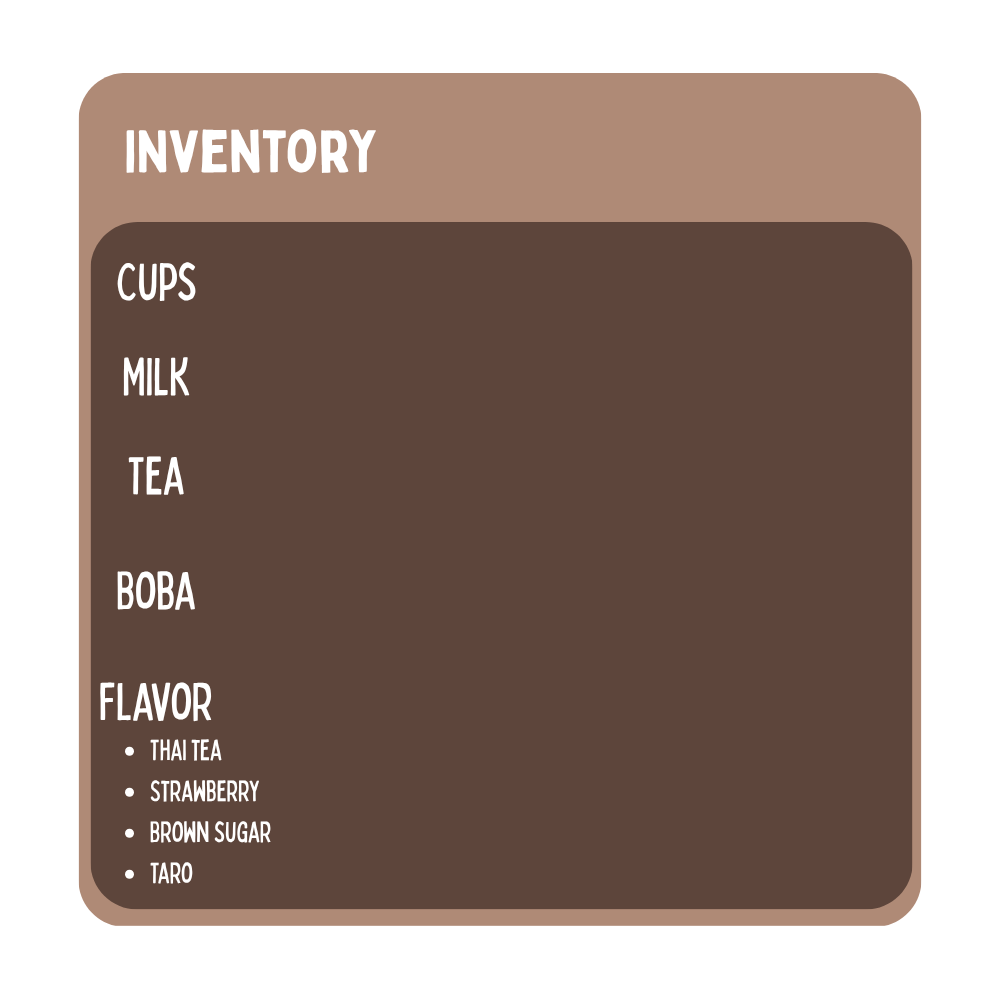
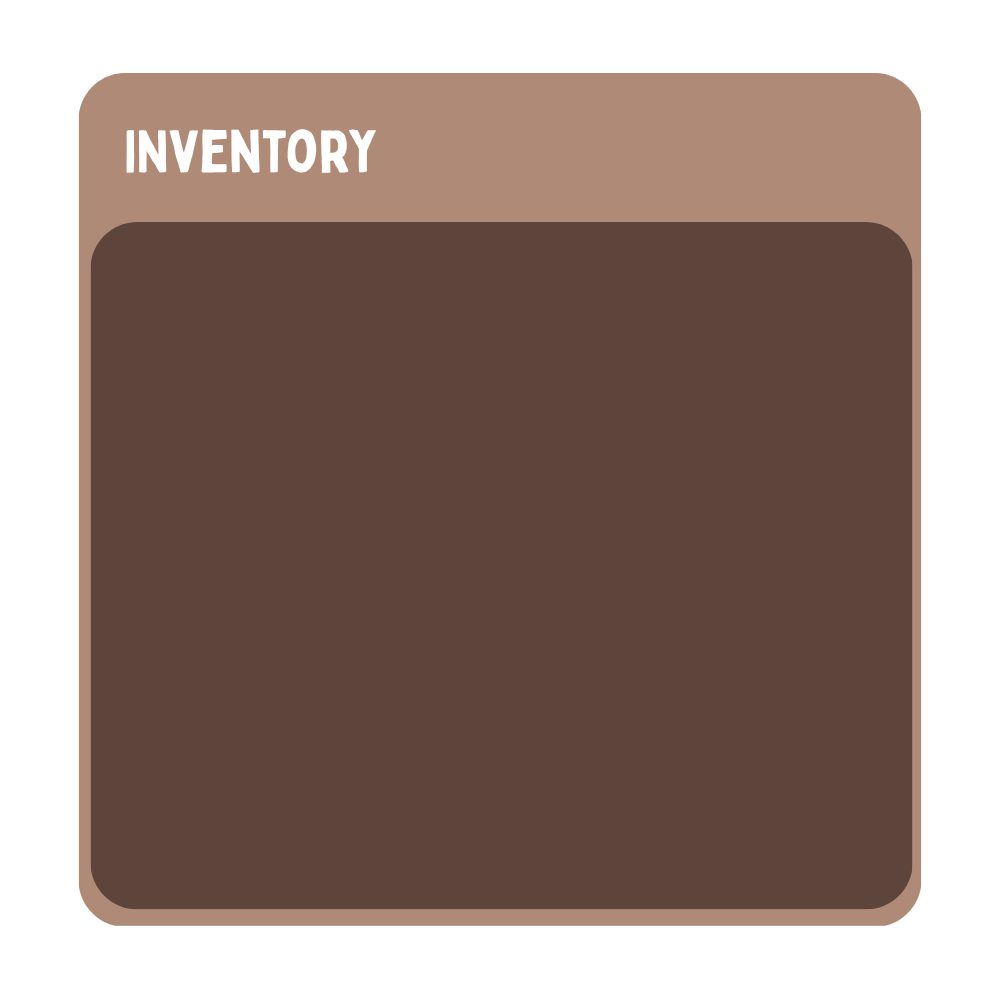
sliders

diff --git a/src/app/ui/inventory.ts b/src/app/ui/inventory.ts
@@ -1,98 +1,108 @@
-import { Container, Sprite, Graphics, FederatedPointerEvent } from "pixi.js";
+import { Container } from "pixi.js";
+import { VolumeSlider } from "./VolumeSlider";
+import { Sprite } from "pixi.js";
+import { Button } from "./Button";
+import { engine } from "../getEngine";
 
 export class inventory extends Container {
-  private background: Graphics;
+  private cupSlider: VolumeSlider;
+  private milkSlider: VolumeSlider;
+  private teaSlider: VolumeSlider;
+  private bobaSlider: VolumeSlider;
+  private thaiSlider: VolumeSlider;
+  private strawberrySlider: VolumeSlider;
+  private brownSlider: VolumeSlider;
+  private taroSlider: VolumeSlider;
   private inventoryImage: Sprite;
-  private dragging: boolean = false;
-  private dragHandle?: Graphics;
-  private dragStartX: number = 0;
-  private slider: Graphics;
+
+  private closeButton: Button;
+
+  public cupVal:number = 0;
+  
+
+
 
   constructor() {
     super();
 
-    this.background = new Graphics();
-    this.background.interactive = true;
-    this.addChild(this.background);
-
-    // Inventory image
     this.inventoryImage = Sprite.from("inventory.png");
     this.inventoryImage.anchor.set(0.5);
     this.addChild(this.inventoryImage);
 
-    // Close popup on background click
-    this.background.on("pointertap", this.close.bind(this));
+    this.cupSlider = new VolumeSlider("Cup " + this.cupVal, 0, 50);
+    this.cupSlider.onUpdate.connect((v) => {
+        this.cupVal = v;
+        this.cupSlider.messageLabel.text = "Cups " + v;
+    });
+    this.addChild(this.cupSlider);
 
-    // Create slider
-    const sliderWidth = 320;
-    this.slider = new Graphics()
-      .beginFill(0xffb3dc)
-      .drawRect(0, 0, sliderWidth, 4)
-      .endFill();
-    this.addChild(this.slider);
+    this.milkSlider = new VolumeSlider("Milk", 0, 100);
+    this.addChild(this.milkSlider);
 
-    // Create handle
-    const handle = new Graphics()
-      .beginFill(0xffffff)
-      .drawCircle(0, 0, 8)
-      .endFill();
+    this.teaSlider = new VolumeSlider("Tea", 0, 100);
+    this.addChild(this.teaSlider);
 
-    handle.x = sliderWidth / 2;
-    handle.y = 2; // Half of 4 (slider height)
-    handle.eventMode = 'static';
-    handle.cursor = 'pointer';
+    this.bobaSlider = new VolumeSlider("Boba", 0, 100);
+    this.addChild(this.bobaSlider);
 
-    this.dragHandle = handle;
+    this.thaiSlider = new VolumeSlider("Thai Tea", 0, 100);
+    this.addChild(this.thaiSlider);
 
-    handle
-      .on("pointerdown", this.onDragStart, this)
-      .on("pointerup", this.onDragEnd, this)
-      .on("pointerupoutside", this.onDragEnd, this)
-      .on("pointermove", this.onDragMove, this);
+    this.strawberrySlider = new VolumeSlider("Strawberry", 0, 100);
+    this.addChild(this.strawberrySlider);
 
-    this.slider.addChild(handle);
+    this.brownSlider = new VolumeSlider("Brown Sugar", 0, 100);
+    this.addChild(this.brownSlider);
+
+    this.taroSlider = new VolumeSlider("Taro", 0, 100);
+    this.addChild(this.taroSlider);
+
+    this.closeButton = new Button({
+      text: "Close",
+      width: 250,
+      height: 70,
+    });
+    this.closeButton.onPress.connect(() => engine().navigation.dismissPopup());
+    this.addChild(this.closeButton);
+
+    
+ 
   }
-
-  private onDragStart(e: FederatedPointerEvent) {
-    this.dragging = true;
-    this.dragStartX = e.global.x;
-  }
-
-  private onDragEnd() {
-    this.dragging = false;
-  }
-
-  private onDragMove(e: FederatedPointerEvent) {
-    if (!this.dragging || !this.dragHandle) return;
-
-    const localPos = this.slider.toLocal(e.global);
-    const minX = 0;
-    const maxX = this.slider.width;
-
-    this.dragHandle.x = Math.max(minX, Math.min(maxX, localPos.x));
-  }
-
-  public resize(screenWidth: number, screenHeight: number) {
-    const centerX = screenWidth * 0.5;
-    const centerY = screenHeight * 0.5;
-
-    // Inventory Image Centered
+  public resize(width: number, height: number) {
+    const centerX = width * 0.5;
+    const centerY = height * 0.5;
     this.inventoryImage.x = centerX;
     this.inventoryImage.y = centerY;
 
-    // Place slider at bottom-right corner of image
-    const margin = 120;
-    const imageHalfWidth = this.inventoryImage.width * 0.5;
-    const imageHalfHeight = this.inventoryImage.height * 0.5;
+    const sliders = [
+      this.cupSlider,
+      this.milkSlider,
+      this.teaSlider,
+      this.bobaSlider,
+      this.thaiSlider,
+      this.strawberrySlider,
+      this.brownSlider,
+      this.taroSlider,
+    ];
+    const spacing = 50; 
+    let totalHeight = 0;
 
-    this.slider.x = centerX + imageHalfWidth - this.slider.width - margin;
-    this.slider.y = centerY + imageHalfHeight - this.slider.height - margin;
-  }
-
-  public close() {
-    this.destroy({ children: true });
-    if (this.parent) {
-      this.parent.removeChild(this);
+    for (const slider of sliders) {
+      totalHeight += slider.height + spacing;
     }
+    totalHeight -= spacing;
+
+    let currentY = centerY * 0.65;
+
+    for (const slider of sliders) {
+      slider.x = centerX * 0.65;
+      slider.y = currentY;
+      currentY += spacing;
+    }
+    this.closeButton.x = centerX;
+    this.closeButton.y = centerY * 1.7;
+
   }
+
+  
 }

diff --git a/src/app/screens/main/GameScreen.ts b/src/app/screens/main/GameScreen.ts
@@ -1,12 +1,17 @@
 import { Container, Text } from "pixi.js";
 import { Sprite, Texture } from "pixi.js";
 import { Logic } from "./Logic";
+import { engine } from "../../getEngine";
+import { inventory } from "../../ui/inventory";
+import { Button } from "../../ui/Button";
 
 export class GameScreen extends Container { 
     public static assetBundles = ["main"];
     private Scene: Sprite;
     public mainContainer: Container;
     private logic: Logic;
+
+    private invButton: Button;
 
     constructor() {
         super();
@@ -18,8 +23,23 @@ export class GameScreen extends Container {
         this.addChild(this.Scene);
         this.logic.newCharacter(this);
 
+        this.invButton = new Button({
+            text: "Inventory",
+            width: 250,
+            height: 70,
+        });
+        this.invButton.onPress.connect(() => this.showInventory());
+        this.addChild(this.invButton);
+
 
     }
+
+    public showInventory() {
+        
+        const eng = engine();
+        eng.navigation.presentPopup(inventory);
+    }
+
     public resize(width: number, height: number) {
         const centerX = width * 0.5;
         const centerY = height * 0.5;
@@ -28,6 +48,8 @@ export class GameScreen extends Container {
         this.Scene.x = centerX;
         this.Scene.y = centerY;
         this.logic.resize(width, height);
+        this.invButton.x = centerX;
+        this.invButton.y = centerY;
 
     }
 

diff --git a/src/app/ui/VolumeSlider.ts b/src/app/ui/VolumeSlider.ts
@@ -10,16 +10,16 @@ export class VolumeSlider extends Slider {
   /** Message displayed for the slider */
   public messageLabel: Label;
 
-  constructor(label: string, min = -0.1, max = 100, value = 100) {
+  constructor(label: string, min = -0.1, max = 100, value = 0) {
     const width = 280;
     const height = 20;
     const radius = 20;
     const border = 4;
     const handleRadius = 14;
     const handleBorder = 4;
-    const meshColor = 0xec1561;
-    const fillColor = 0xef6294;
-    const borderColor = 0xec1561;
+    const meshColor = 0xffb3dc;
+    const fillColor = 0xffb3dc;
+    const borderColor = 0xfffdcf;
     const backgroundColor = 0xffffff;
 
     const bg = new Graphics()
@@ -64,7 +64,7 @@ export class VolumeSlider extends Slider {
       text: label,
       style: {
         align: "left",
-        fill: 0x4a4a4a,
+        fill: 0xffffff,
         fontSize: 18,
       },
     });

diff --git a/src/app/utils/userSettings.ts b/src/app/utils/userSettings.ts
@@ -26,6 +26,12 @@ class UserSettings {
     engine().audio.setMasterVolume(value);
     storage.setNumber(KEY_VOLUME_MASTER, value);
   }
+  public setCups(value: number) {
+    storage.setNumber("cups", value);
+  }
+  public getCups() {
+    return storage.getNumber("cups") ?? 1;
+  }
 
   /** Get background music volume */
   public getBgmVolume() {

diff --git a/src/app/screens/main/MainScreen.ts b/src/app/screens/main/MainScreen.ts
@@ -45,7 +45,7 @@ export class MainScreen extends Container {
       width: 250,
       height: 70,
     });
-    //this.startButton.onPress.connect(() => this.bouncer.add());
+    this.startButton.onPress.connect(() => this.startGame());
     this.addChild(this.startButton);
   }
 

diff --git a/src/app/screens/main/CustomerSprite.ts b/src/app/screens/main/CustomerSprite.ts
@@ -21,7 +21,7 @@ export class CustomerSprite extends Sprite {
           this.custName = name;
         } else {
           super({ texture: Texture.from("pinkboy1.png"), anchor: 0.5, scale: 0.35 });
-          this.name = name;
+          this.custName = name;
 
         }
 

diff --git a/src/app/screens/main/Logic.ts b/src/app/screens/main/Logic.ts
@@ -20,6 +20,7 @@ export class Logic {
     
     
     
+    
 
     public newCharacter(screen: GameScreen) {
         this.screen = screen;
